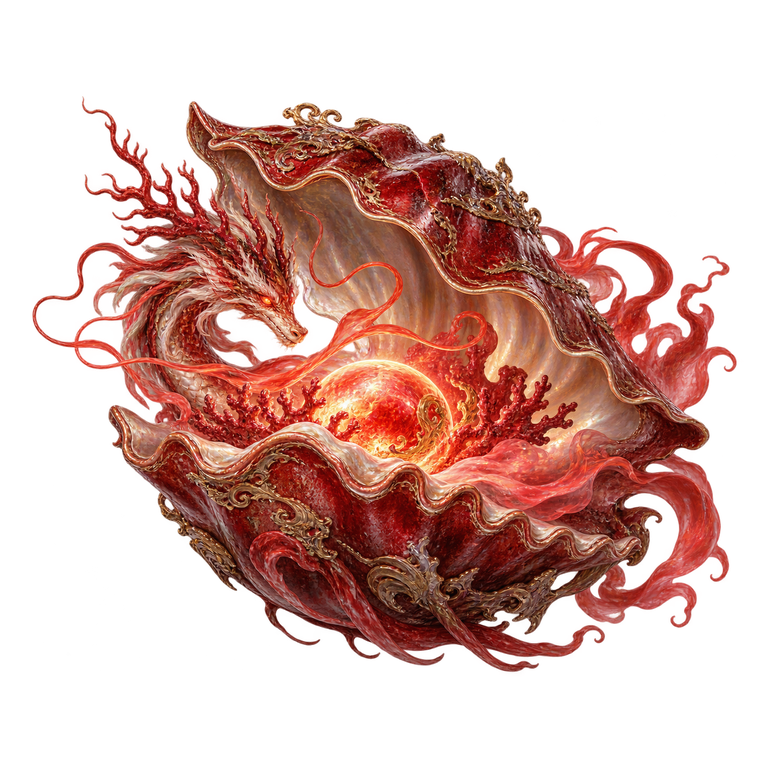
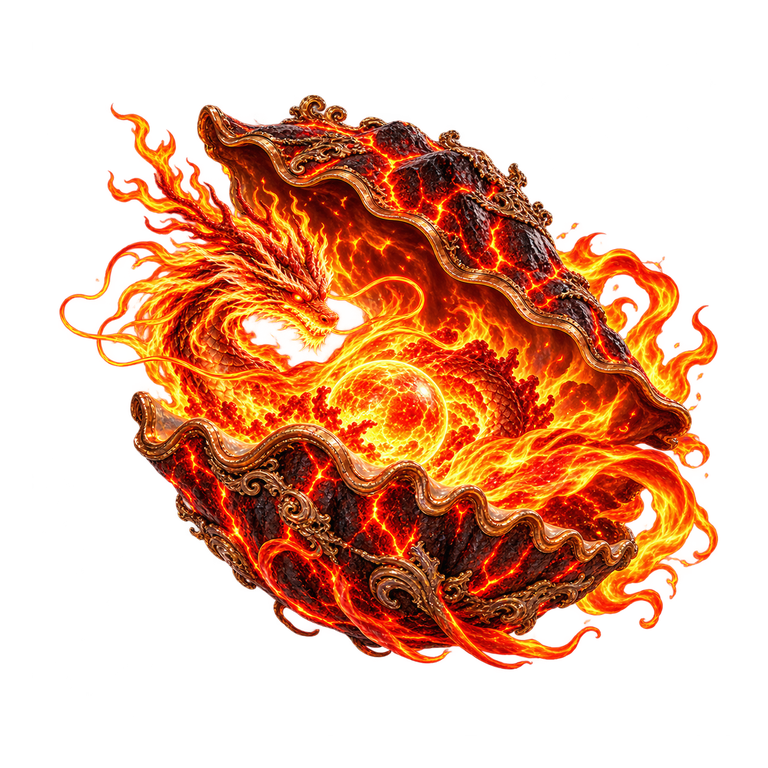
Revise Crimson Clam artwork with clear fire identity

diff --git a/docs/expansion_art_2026-10-02.md b/docs/expansion_art_2026-10-02.md
@@ -1,5 +1,13 @@
 # 2026-10-02 扩展美术记录
 
+## 赤霞蜃火系观感修订
+
+用户指出初版贝壳、珊瑚和水雾让新增火系召唤物偏向水系。已使用内置图像生成工具编辑卡图与透明立绘，保留蜃的贝壳和龙形身份，改为焦黑熔岩壳、燃烧内核、火焰龙鬃与火星，移除珊瑚和水景。卡图和立绘已覆盖下表对应资源；名称、数值与效果不变。两次完整提示词、生成原图路径和初版历史保存在[提示词与原图记录](expansion_art_2026-10-02.json)。
+
+仅进行美术资源检查：卡图1024×768、立绘768×768，WebP可解码，立绘透明通道与四边空白合格，运行引用仍使用原资源路径。未重跑战斗测试。
+
+## 初次扩展
+
 使用内置图像生成工具逐个生成36张原创建图：10张卡牌插画、6张召唤物透明立绘、15张法宝插画、5张法器透明立绘。三级共用本家族原版美术。灵钱图标使用项目原生SVG，保持小尺寸清晰。
 
 35项保存了完整生成提示词，四象鸣雷首张保存了提示词摘要；详见[提示词与原图记录](expansion_art_2026-10-02.json)。最终插画为1024×768的4:3高质量WebP，透明立绘为768×768无损WebP，已检查透明通道和整体联系图。透明图只做尺寸适配，未以白底代替透明。
